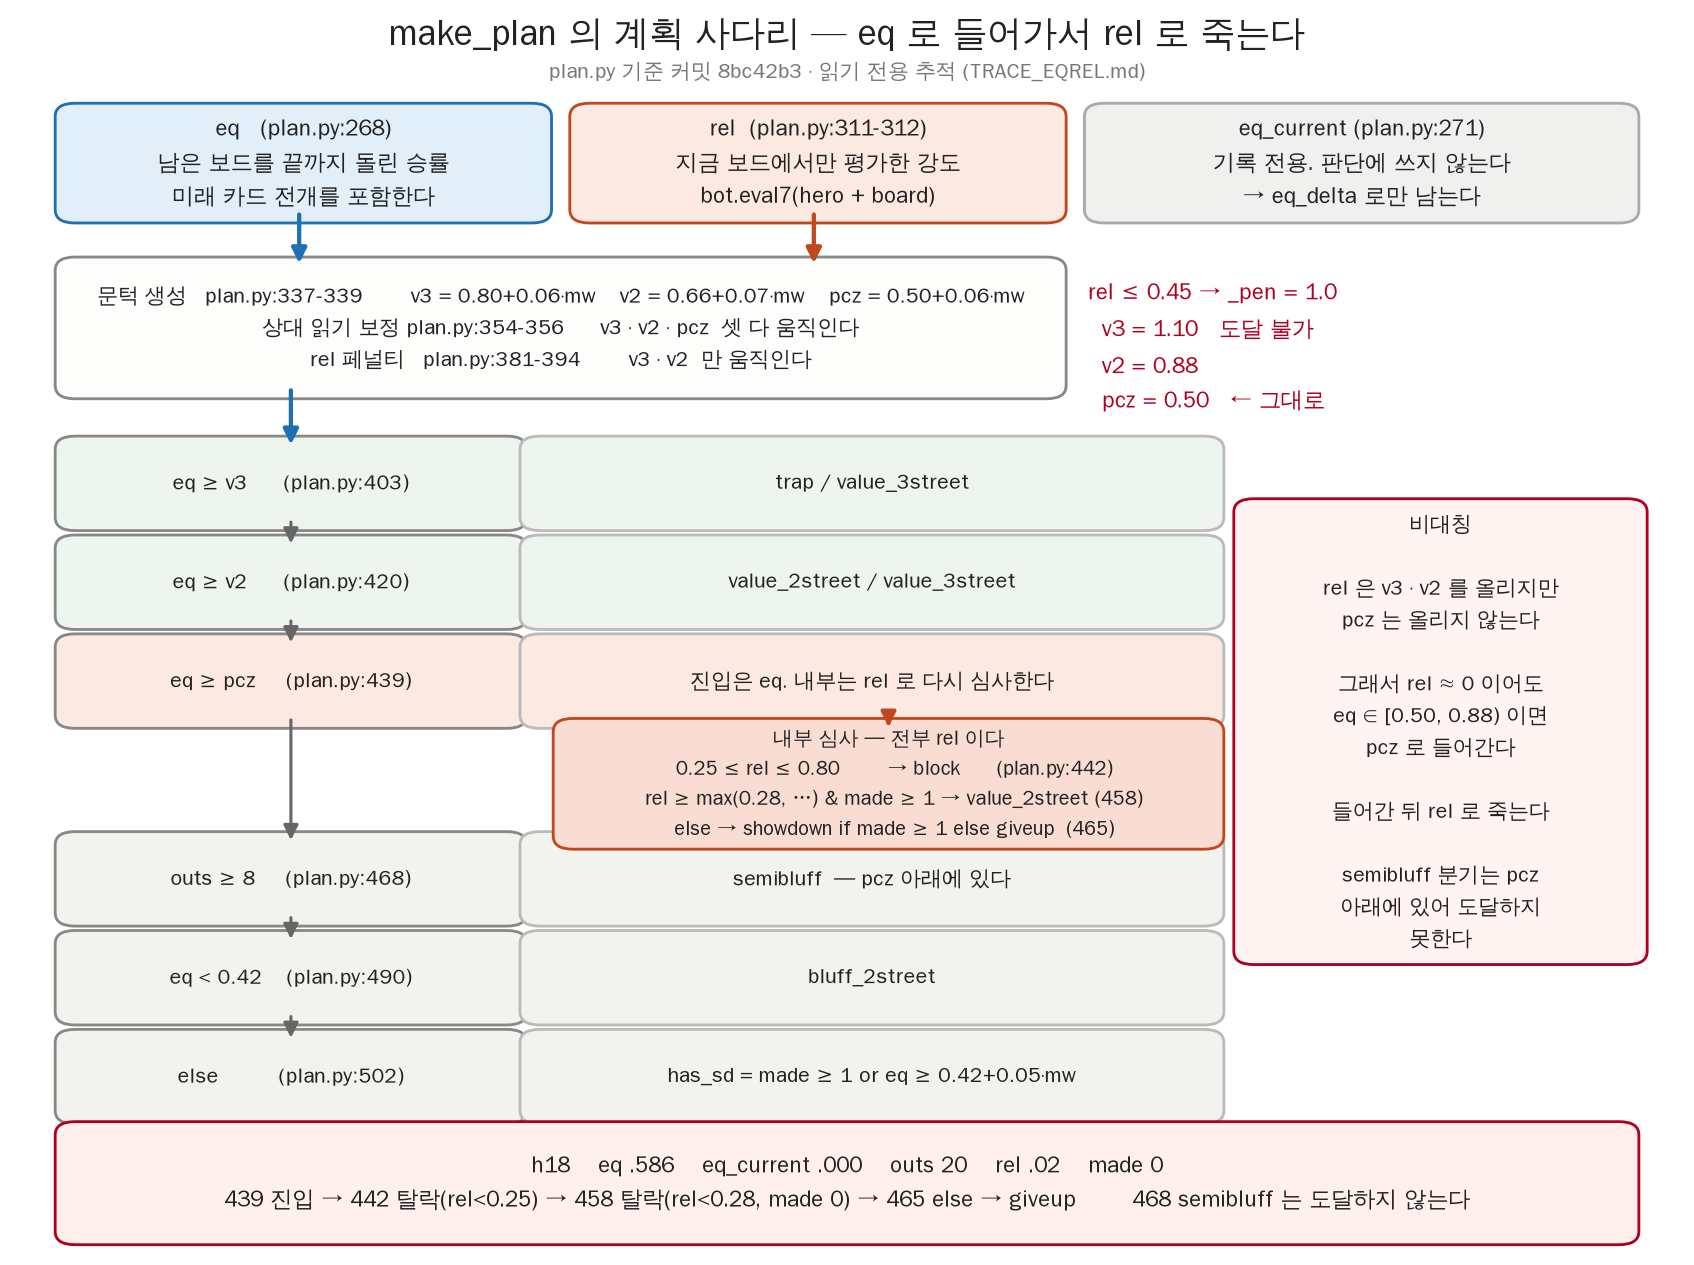
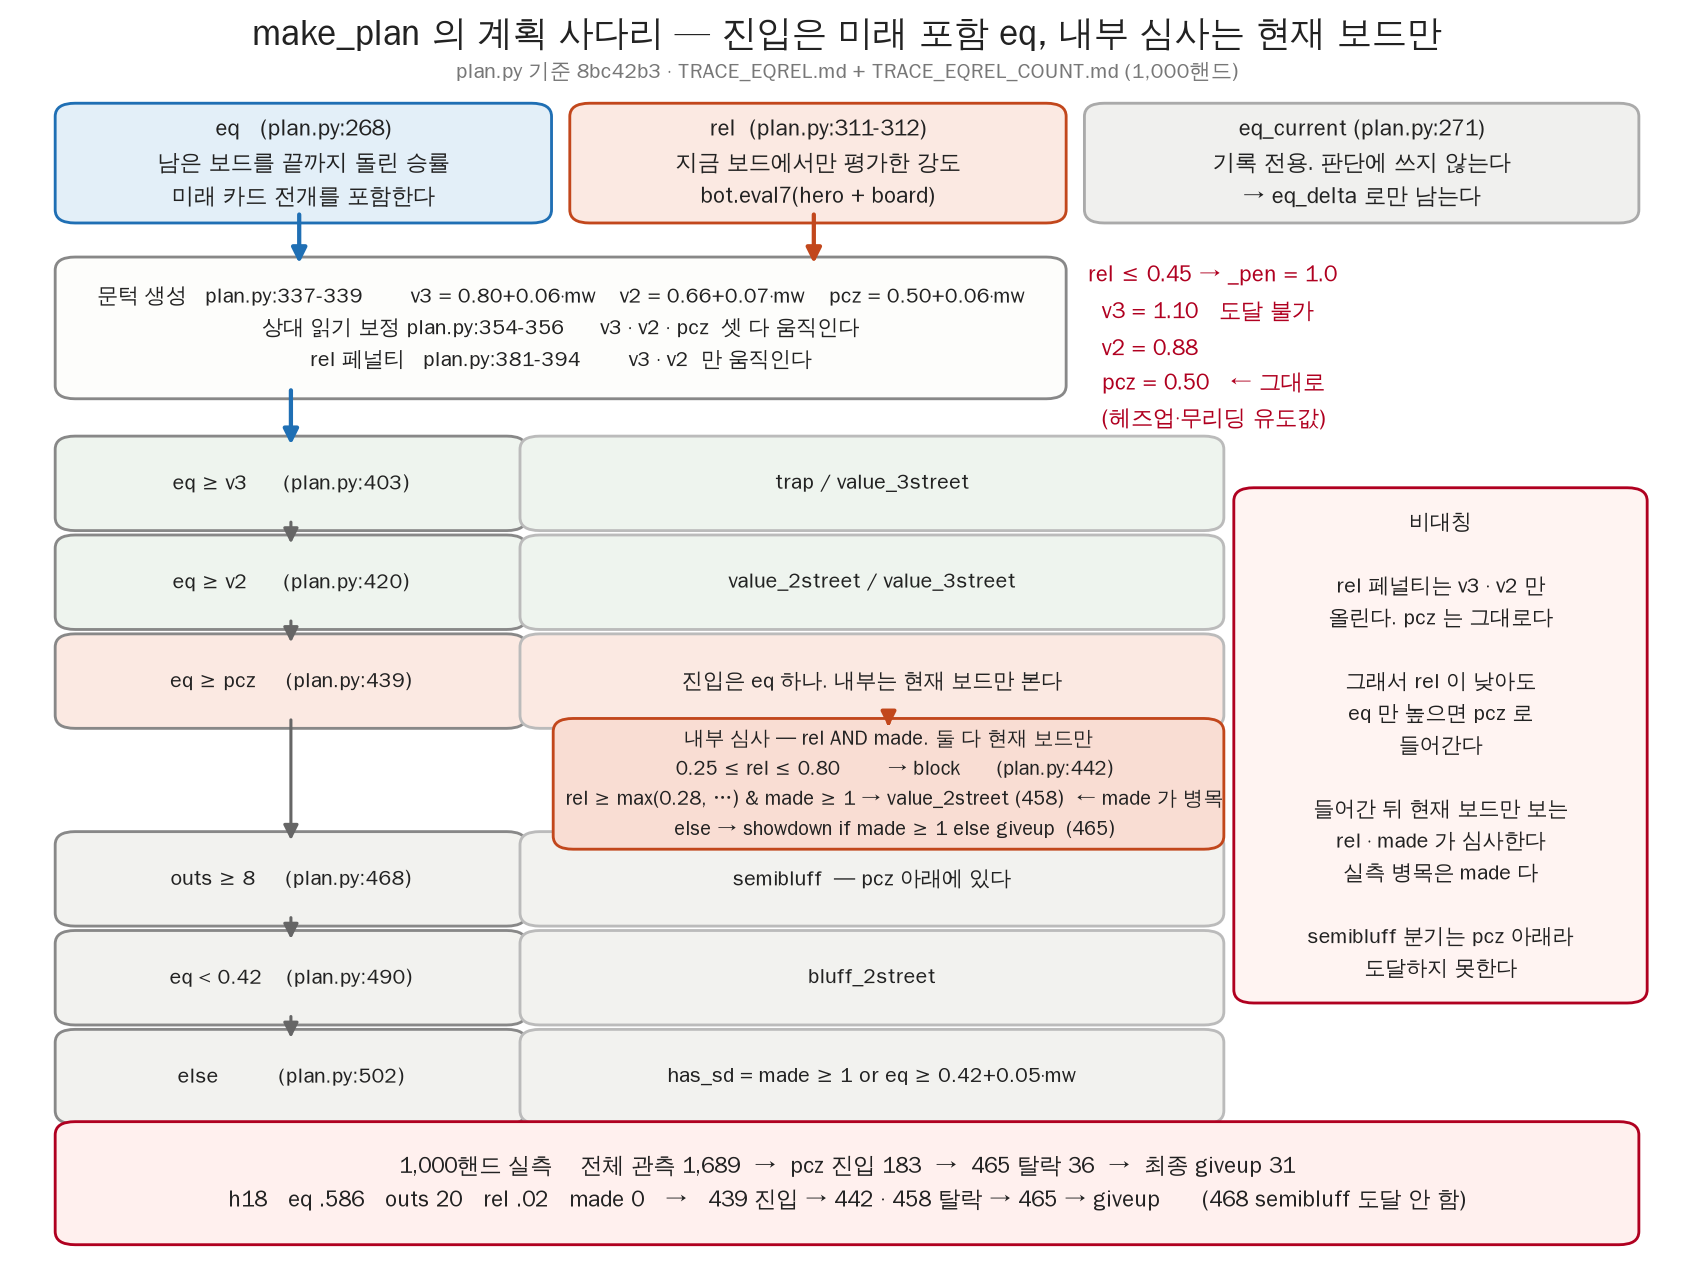
docs: TRACE_EQREL 본문 정정 — 'eq 로 들어와 rel 로 giveup' 폐기
지시에 따라 본문과 그림을 고쳤다. 초판 표현은 남기지 않는다.

정확한 진술:
  진입      eq >= pcz                 미래 전개를 포함한 값 하나
  내부 심사  rel 조건 AND made >= 1     둘 다 현재 보드만 보는 값
  465 else  showdown if made>=1 else giveup

실측 다수 사례의 병목은 made 다 (36건 중 25건이 rel >= 0.52).

[0.50, 0.88) 을 대상 집합의 정의로 쓰지 않는다고 3-1 에 박았다 —
street_gap 이 음수면 pcz 가 0.50 밑으로 내려가고 실측 giveup 의
eq 최소가 0.448 이다. 영향 범위는 실제 코드 조건으로 정의한다.

세미블러프 항목은 구조적 사실과 효과를 분리했다 — 분기가 선점된다는
것까지가 확정이고, 손해가 났는지는 재지 않았다.

Claude-Session: https://claude.ai/code/session_01BLRHV14gJtnk3f8cLagcNs

diff --git a/tools/draw_eqrel.py b/tools/draw_eqrel.py
@@ -36,9 +36,9 @@ fig, ax = plt.subplots(figsize=(12.6, 9.4), dpi=170)
 ax.set_xlim(0, 1); ax.set_ylim(0, 1); ax.axis('off')
 fig.patch.set_facecolor('white')
 
-ax.text(0.5, 0.975, 'make_plan 의 계획 사다리 — eq 로 들어가서 rel 로 죽는다',
+ax.text(0.5, 0.975, 'make_plan 의 계획 사다리 — 진입은 미래 포함 eq, 내부 심사는 현재 보드만',
         ha='center', fontsize=15, fontweight='bold', color=C_TXT, fontproperties=fp)
-ax.text(0.5, 0.945, 'plan.py 기준 커밋 8bc42b3 · 읽기 전용 추적 (TRACE_EQREL.md)',
+ax.text(0.5, 0.945, 'plan.py 기준 8bc42b3 · TRACE_EQREL.md + TRACE_EQREL_COUNT.md (1,000핸드)',
         ha='center', fontsize=9, color='#777777', fontproperties=fp)
 
 # --- 두 계산값 ---
@@ -61,7 +61,8 @@ box(ax, 0.035, 0.665, 0.585, 0.105,
 arrow(ax, (0.48, 0.825), (0.48, 0.772), color=C_REL, lw=1.8)
 
 ax.text(0.645, 0.700,
-        'rel ≤ 0.45 → _pen = 1.0\n  v3 = 1.10   도달 불가\n  v2 = 0.88\n  pcz = 0.50   ← 그대로',
+        'rel ≤ 0.45 → _pen = 1.0\n  v3 = 1.10   도달 불가\n  v2 = 0.88\n  pcz = 0.50   ← 그대로\n'
+        '  (헤즈업·무리딩 유도값)',
         fontsize=9.5, color=C_BAD, fontproperties=fp, va='center',
         fontweight='bold', linespacing=1.6)
 
@@ -69,7 +70,7 @@ ax.text(0.645, 0.700,
 rows = [
     (0.545, 'eq ≥ v3      (plan.py:403)', 'trap / value_3street', '#eef4ee'),
     (0.455, 'eq ≥ v2      (plan.py:420)', 'value_2street / value_3street', '#eef4ee'),
-    (0.365, 'eq ≥ pcz     (plan.py:439)', '진입은 eq. 내부는 rel 로 다시 심사한다', '#fbe9e2'),
+    (0.365, 'eq ≥ pcz     (plan.py:439)', '진입은 eq 하나. 내부는 현재 보드만 본다', '#fbe9e2'),
     (0.185, 'outs ≥ 8     (plan.py:468)', 'semibluff  — pcz 아래에 있다', '#f2f2ef'),
     (0.095, 'eq < 0.42    (plan.py:490)', 'bluff_2street', '#f2f2ef'),
     (0.005, 'else          (plan.py:502)', 'has_sd = made ≥ 1 or eq ≥ 0.42+0.05·mw', '#f2f2ef'),
@@ -80,9 +81,9 @@ for y, cond, res, fc in rows:
 
 # pcz 내부
 box(ax, 0.335, 0.255, 0.38, 0.095,
-    '내부 심사 — 전부 rel 이다\n'
+    '내부 심사 — rel AND made. 둘 다 현재 보드만\n'
     '  0.25 ≤ rel ≤ 0.80        → block      (plan.py:442)\n'
-    '  rel ≥ max(0.28, …) & made ≥ 1 → value_2street (458)\n'
+    '  rel ≥ max(0.28, …) & made ≥ 1 → value_2street (458)  ← made 가 병목\n'
     '  else → showdown if made ≥ 1 else giveup  (465)',
     fc='#f9ddd3', ec=C_REL, fs=8.5)
 arrow(ax, (0.525, 0.365), (0.525, 0.350), color=C_REL, lw=1.6)
@@ -95,19 +96,20 @@ arrow(ax, (0.17, 0.825), (0.17, 0.772), color=C_EQ, lw=1.8)
 arrow(ax, (0.165, 0.665), (0.165, 0.607), color=C_EQ, lw=1.8)
 
 # --- 핵심 진술 ---
-box(ax, 0.745, 0.150, 0.225, 0.40,
+box(ax, 0.745, 0.115, 0.225, 0.445,
     '비대칭\n\n'
-    'rel 은 v3 · v2 를 올리지만\npcz 는 올리지 않는다\n\n'
-    '그래서 rel ≈ 0 이어도\neq ∈ [0.50, 0.88) 이면\npcz 로 들어간다\n\n'
-    '들어간 뒤 rel 로 죽는다\n\n'
-    'semibluff 분기는 pcz\n아래에 있어 도달하지\n못한다',
+    'rel 페널티는 v3 · v2 만\n올린다. pcz 는 그대로다\n\n'
+    '그래서 rel 이 낮아도\neq 만 높으면 pcz 로\n들어간다\n\n'
+    '들어간 뒤 현재 보드만 보는\nrel · made 가 심사한다\n'
+    '실측 병목은 made 다\n\n'
+    'semibluff 분기는 pcz 아래라\n도달하지 못한다',
     fc='#fff4f2', ec=C_BAD, fs=9, bold=False)
 
 # --- h18 ---
 box(ax, 0.035, -0.105, 0.93, 0.088,
-    'h18    eq .586    eq_current .000    outs 20    rel .02    made 0\n'
-    '439 진입 → 442 탈락(rel<0.25) → 458 탈락(rel<0.28, made 0) → 465 else → giveup'
-    '        468 semibluff 는 도달하지 않는다',
+    '1,000핸드 실측    전체 관측 1,689  →  pcz 진입 183  →  465 탈락 36  →  최종 giveup 31\n'
+    'h18   eq .586   outs 20   rel .02   made 0   →   439 진입 → 442 · 458 탈락 → 465 → giveup'
+    '      (468 semibluff 도달 안 함)',
     fc='#fff0ee', ec=C_BAD, fs=9.5, bold=True)
 
 ax.set_ylim(-0.12, 1.0)

diff --git a/TRACE_EQREL.md b/TRACE_EQREL.md
@@ -71,43 +71,60 @@ eq    decide_response(695)    — 797 · 800 · 816 · 834
 
 ---
 
-## 3. 모순 경로 — `eq` 로 들어와 `rel` 로 죽는다
+## 3. 모순 경로 — 진입은 미래 포함 `eq`, 내부 심사는 현재 보드만
 
-`rel <= 0.45` 이면 `_pen = 1.0` 이다 (`plan.py:381-382`). 헤즈업(mw=0),
-상대 읽기 없음(`rd['w'] = 0`) 기준으로 문턱은 이렇게 된다.
+**"eq 로 들어와 rel 로 죽는다" 는 표현은 폐기한다.** 1,000핸드 집계에서
+다수 사례의 직접 병목은 `rel` 이 아니라 `made` 였다
+(`TRACE_EQREL_COUNT.md` 2절). 정확한 진술은 이것이다.
 
 ```
-v3  = 0.80 + 0.30 = 1.10     eq <= 1 이므로 **도달 불가**
+진입        eq >= pcz                      미래 카드 전개를 포함한 값 하나
+   ↓
+내부 심사    rel 조건  AND  made >= 1       둘 다 현재 보드만 보는 값
+   ↓
+465 else    showdown if made >= 1 else giveup
+```
+
+`made` 도 `rel` 과 같은 성질이다.
+
+```
+eq    plan.py:268   _eq_vs → equity_vs_combos     남은 보드를 끝까지 돌린다
+rel   plan.py:29    bot.eval7(hero + board)       지금 보드만
+made  plan.py:310   bot.made_strength(hero, board) 지금 보드만
+```
+
+### 3-1. 문턱 비대칭
+
+`rel <= 0.45` 이면 `_pen = 1.0` 이다 (`plan.py:381-382`). 헤즈업(mw=0)·
+상대 읽기 없음 기준으로 문턱은 이렇게 된다.
+
+```
+v3  = 0.80 + 0.30 = 1.10     eq <= 1 이므로 도달 불가
 v2  = 0.66 + 0.22 = 0.88
-pcz = 0.50                    **변하지 않는다**
+pcz = 0.50                    **rel 페널티가 닿지 않는다**
 ```
 
-따라서 `rel <= 0.45` 인 핸드는 다음 띠에 갇힌다.
+`pcz` 만 `rel` 을 반영하지 않으므로, `rel` 이 낮아도 `eq` 만 높으면
+`439` 로 진입한다. 진입한 뒤에는 현재 보드만 보는 두 값이 심사한다.
+
+**`[0.50, 0.88)` 을 대상 집합의 정의로 쓰지 마라.** 이 경계는 헤즈업·
+무리딩 유도값이고, `street_gap` 이 음수면 `pcz` 가 0.50 밑으로 내려간다
+(`plan.py:356`). 실측 giveup 의 `eq` 최소가 0.448 이다. **영향 범위를 잴
+때는 고정 구간이 아니라 실제 코드 조건으로 집합을 정의한다.**
+
+### 3-2. 세미블러프 선점은 같은 비대칭이다
+
+`semibluff` 분기(`plan.py:468`)는 `elif` 체인에서 `eq >= pcz` **아래**에
+있다. 그래서 `pcz` 로 진입한 핸드는 `outs >= 8` 이어도 `468` 에 도달하지
+못한다.
 
 ```
-eq ∈ [0.50, 0.88)   →  plan.py:439 로 진입   →  442 · 458 에서 rel 로 탈락
-                                              →  465 else → giveup / showdown
+구조적 사실   eq >= pcz 가 먼저 성립하면 semibluff 분기는 평가되지 않는다
+아직 아님     그래서 더 나쁜 행동·EV 가 났는지는 **재지 않았다**
 ```
 
-**진입 심사는 미래를 포함한 `eq`, 내부 심사는 현재만 보는 `rel` 이다.**
-드로우 핸드는 `eq` 의 대부분이 미래 지분이라 이 띠에 정확히 들어온다.
-
-### 3-1. 세미블러프 선점은 같은 비대칭이다
-
-`semibluff` 분기(`plan.py:468`)는 `elif` 체인에서 **`eq >= pcz` 아래**에 있다.
-그래서 위 띠에 들어온 핸드는 `outs >= 8` 이어도 `468` 에 도달하지 못한다.
-
-```
-outs 20 인 드로우가 eq 0.50 을 넘으면
-  → 세미블러프 자격을 잃고
-  → pcz 띠로 들어가 rel 로 죽는다
-```
-
-`CLAUDE.md` 가 따로 적어 둔 두 결함 — "세미블러프 선점" 과
-"eq 로 들어가서 rel 로 giveup" — 은 **별개가 아니라 같은 비대칭의
-두 얼굴이다.** 이것이 이번 추적에서 새로 확정된 것이다.
-
----
+실측 규모는 `TRACE_EQREL_COUNT.md` 3절이다 — `outs >= 8` 인 115건 중
+21건(18.3%)이 이 경로로 세미블러프 심사를 받지 못했다.
 
 ## 4. h18 과 코드 경로
 
@@ -159,15 +176,18 @@ plan.py:712   rel = relative_strength(hero, board, opp_range)   ← 날것 rel
 ## 6. 확정된 것과 확정되지 않은 것
 
 ```
-확정   진입 심사는 eq, pcz 내부 심사는 rel 이다 (2-1 · 2-3)
+확정   진입 심사는 eq 하나, pcz 내부 심사는 rel AND made 다 (2-1 · 2-3)
 확정   rel 페널티가 v3 · v2 에만 들어가고 pcz 에는 안 들어간다 (2-2)
-확정   그래서 rel <= 0.45 인 핸드가 eq ∈ [0.50, 0.88) 띠에 갇힌다 (3)
-확정   semibluff 분기가 그 띠 아래에 있어 도달 불가다 (3-1)
-확정   h18 이 이 경로를 탄다 (4)
+확정   실측 다수 사례의 병목은 rel 이 아니라 made 다 (COUNT 2절)
+확정   semibluff 분기가 pcz 아래에 있어 진입한 핸드는 도달 불가다 (3-2)
+확정   h18 이 이 경로를 탄다 — rel · made 둘 다 탈락이다 (4)
+확정   진입 건수 183 / 1,689, 465 탈락 36, 최종 giveup 31 (COUNT 1절)
 
-미확정  이 띠에 실제로 몇 건이 들어오는가 — 재측정하지 않았다
-미확정  띠에 들어온 핸드의 행동이 실제로 손해인가 — EV 를 재지 않았다
+미확정  이 구조가 실제로 손해를 냈는가 — EV 를 재지 않았다
 미확정  pcz 에 rel 페널티를 넣는 것이 옳은 수정인가 — 수정 단계의 질문이다
+미확정  made >= 1 게이트를 푸는 것이 옳은가 — 같다
+폐기    "eq 로 들어와 rel 로 giveup" 이라는 표현 (3절)
+폐기    eq ∈ [0.50, 0.88) 을 대상 집합의 정의로 쓰는 것 (3-1)
 ```
 
 **수정안을 여기서 만들지 않는다.** 작업 원칙 1 에 따라, 수정에 들어갈
@@ -177,12 +197,11 @@ plan.py:712   rel = relative_strength(hero, board, opp_range)   ← 날것 rel
 
 ---
 
-## 7. 정정 (`TRACE_EQREL_COUNT.md`)
+## 7. 정정 이력
 
-1,000핸드 집계 결과, 3절의 "`442`·`458` 에서 `rel` 로 탈락" 은 **다수
-사례에서 맞지 않는다.** `465` 로 온 36건 중 25건은 `rel >= 0.52` 라
-`458` 의 `rel` 문턱을 넘고, 그 건들을 막은 것은 `made >= 1` 이다.
+초판(`c4ee28e`)은 이 경로를 "`442`·`458` 에서 `rel` 로 탈락" 이라고 적었다.
+1,000핸드 집계에서 `465` 로 온 36건 중 25건이 `rel >= 0.52` 라 `458` 의
+`rel` 문턱을 넘었고, 막은 것은 `made >= 1` 이었다.
 
-`made` 도 현재 보드만 보는 값이므로 구조 진단(진입 = 미래 포함 `eq`,
-내부 = 현재 보드만)은 유지된다. 다만 **내부 심사의 구속 조건은 `rel` 이
-아니라 `made` 로 좁혀야 한다.** 본문은 고치지 않고 여기 기록을 남긴다.
+**3절·6절 본문을 정정했다.** 초판 표현은 폐기하고 남기지 않는다.
+숫자 근거는 `TRACE_EQREL_COUNT.md` 다.
